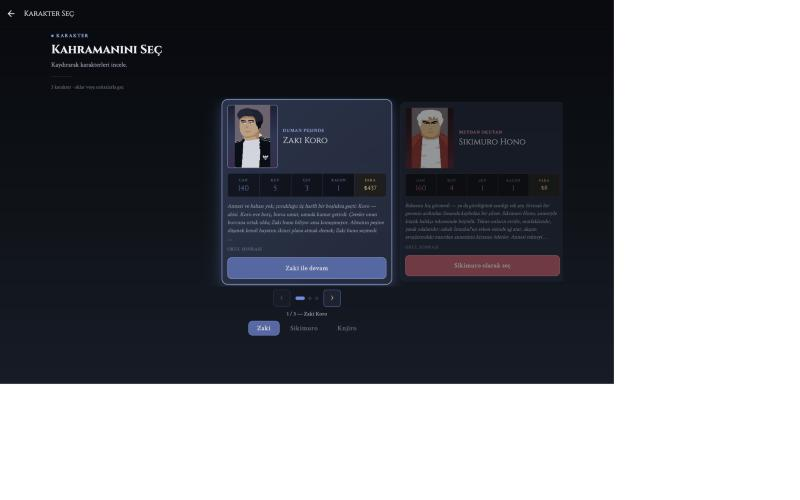
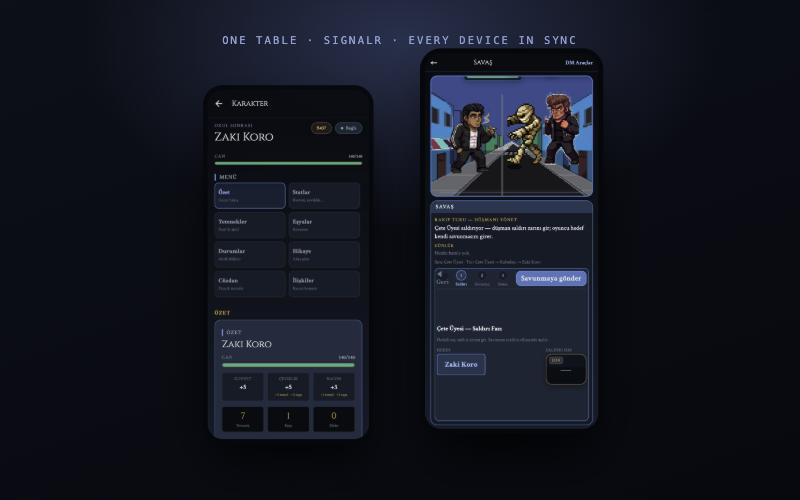
TTRPG Companion: re-shoot at phone size, from the stack running locally
The first screenshots were taken at desktop width. The client is React
Native served through react-native-web, so it laid out in a narrow column
with two thirds of the frame left empty — the images did not fit their
boxes because they were never the right shape.

Re-captured at 375px against the API and Expo client running locally
with a seeded database, which also reached screens the deployed build
would not show me: the encounter list and the pixel-art battle arena
mid-exchange. The cover is now the character sheet and that arena, side
by side, and the gallery is three full-bleed phone screens.

diff --git a/src/data/projects.ts b/src/data/projects.ts
@@ -429,26 +429,34 @@ const projectsData = [
     },
     cover: {
       src: "/images/projects/ttrpg-companion.jpg",
-      alt: "The character-select screen showing playable characters with their stats and backstories.",
+      alt: "A character sheet and the pixel-art battle arena, side by side on two phones.",
       width: 800,
       height: 500,
     },
     gallery: [
       {
-        src: "/images/projects/ttrpg-companion-sheet.jpg",
-        alt: "A character sheet with a health bar and tabs for stats, abilities, items, conditions, story, journal and relationships.",
-        width: 800,
-        height: 500,
+        src: "/images/projects/ttrpg-companion-combat.jpg",
+        alt: "The battle arena: pixel-art sprites in a back street, with the turn order and the attack-roll panel below.",
+        width: 646,
+        height: 1400,
         caption:
-          "The character sheet every player at the table sees update in real time.",
+          "A contested attack in progress. The attacker enters their roll, the defence opens on the other player's device, and the server decides the outcome.",
       },
       {
-        src: "/images/projects/ttrpg-companion-stats.jpg",
-        alt: "A radar chart of a character's stat profile, above the day-end, events and battle-lobby actions.",
-        width: 800,
-        height: 500,
+        src: "/images/projects/ttrpg-companion-select.jpg",
+        alt: "Character selection: a pixel-art portrait with health, strength, agility, honour and money, and a backstory.",
+        width: 646,
+        height: 1400,
         caption:
-          "Stat profile, the end-of-day cycle, and the entrances to the online and solo battle arenas.",
+          "Three playable characters, each with stats and the part of the story they walked in from.",
+      },
+      {
+        src: "/images/projects/ttrpg-companion-sheet.jpg",
+        alt: "A character sheet with a health bar, a connection badge, and sections for stats, abilities, items, conditions, story, wallet and relationships.",
+        width: 646,
+        height: 1400,
+        caption:
+          "The sheet every player sees update live — the badge in the corner is the SignalR connection, not decoration.",
       },
     ],
   },
